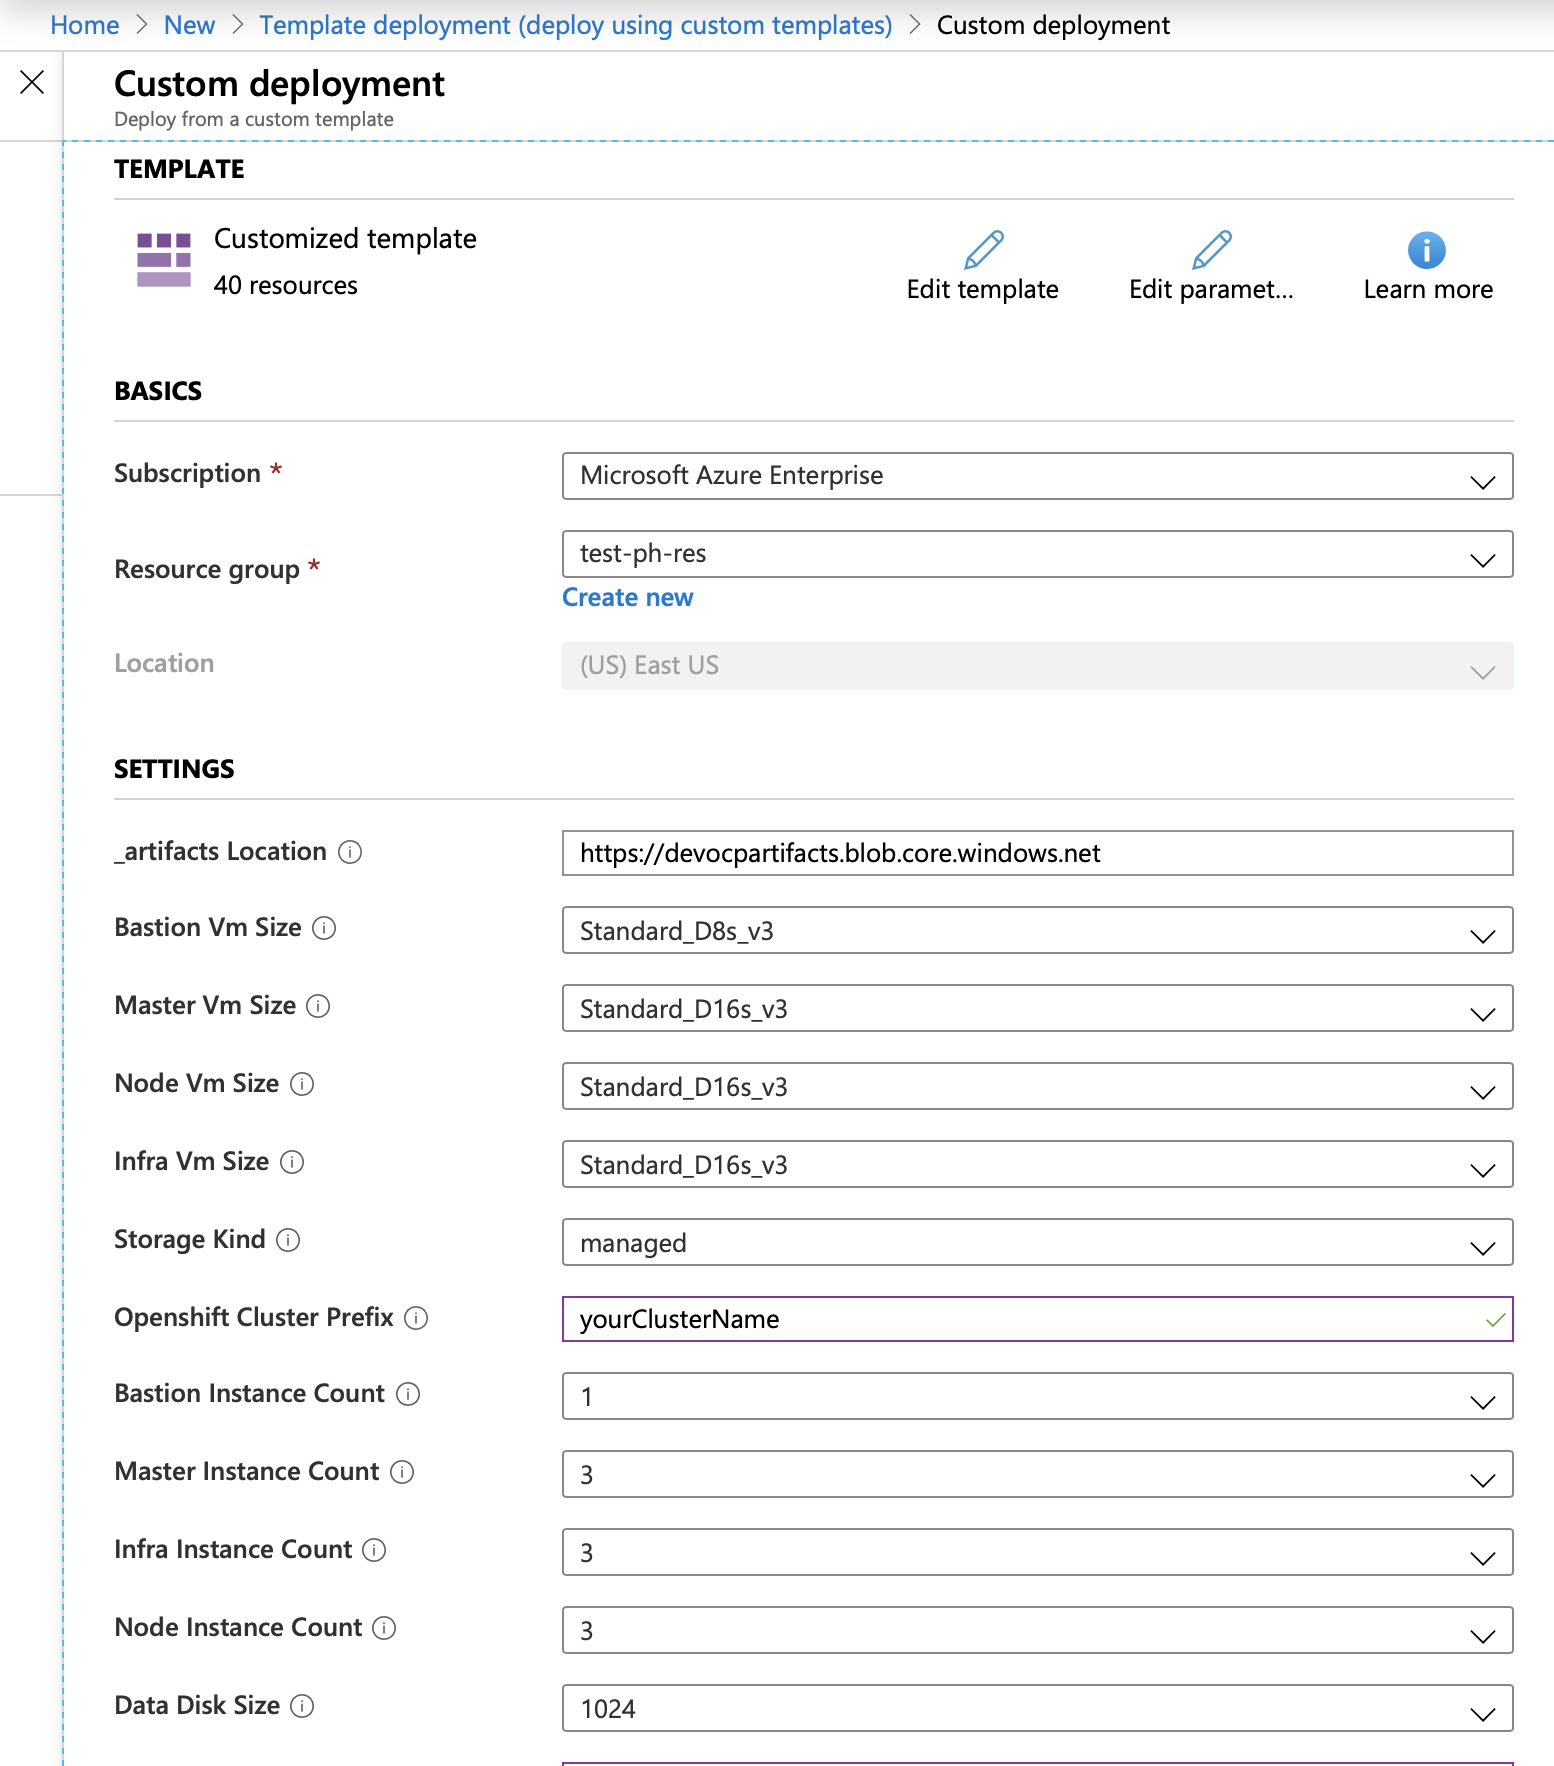
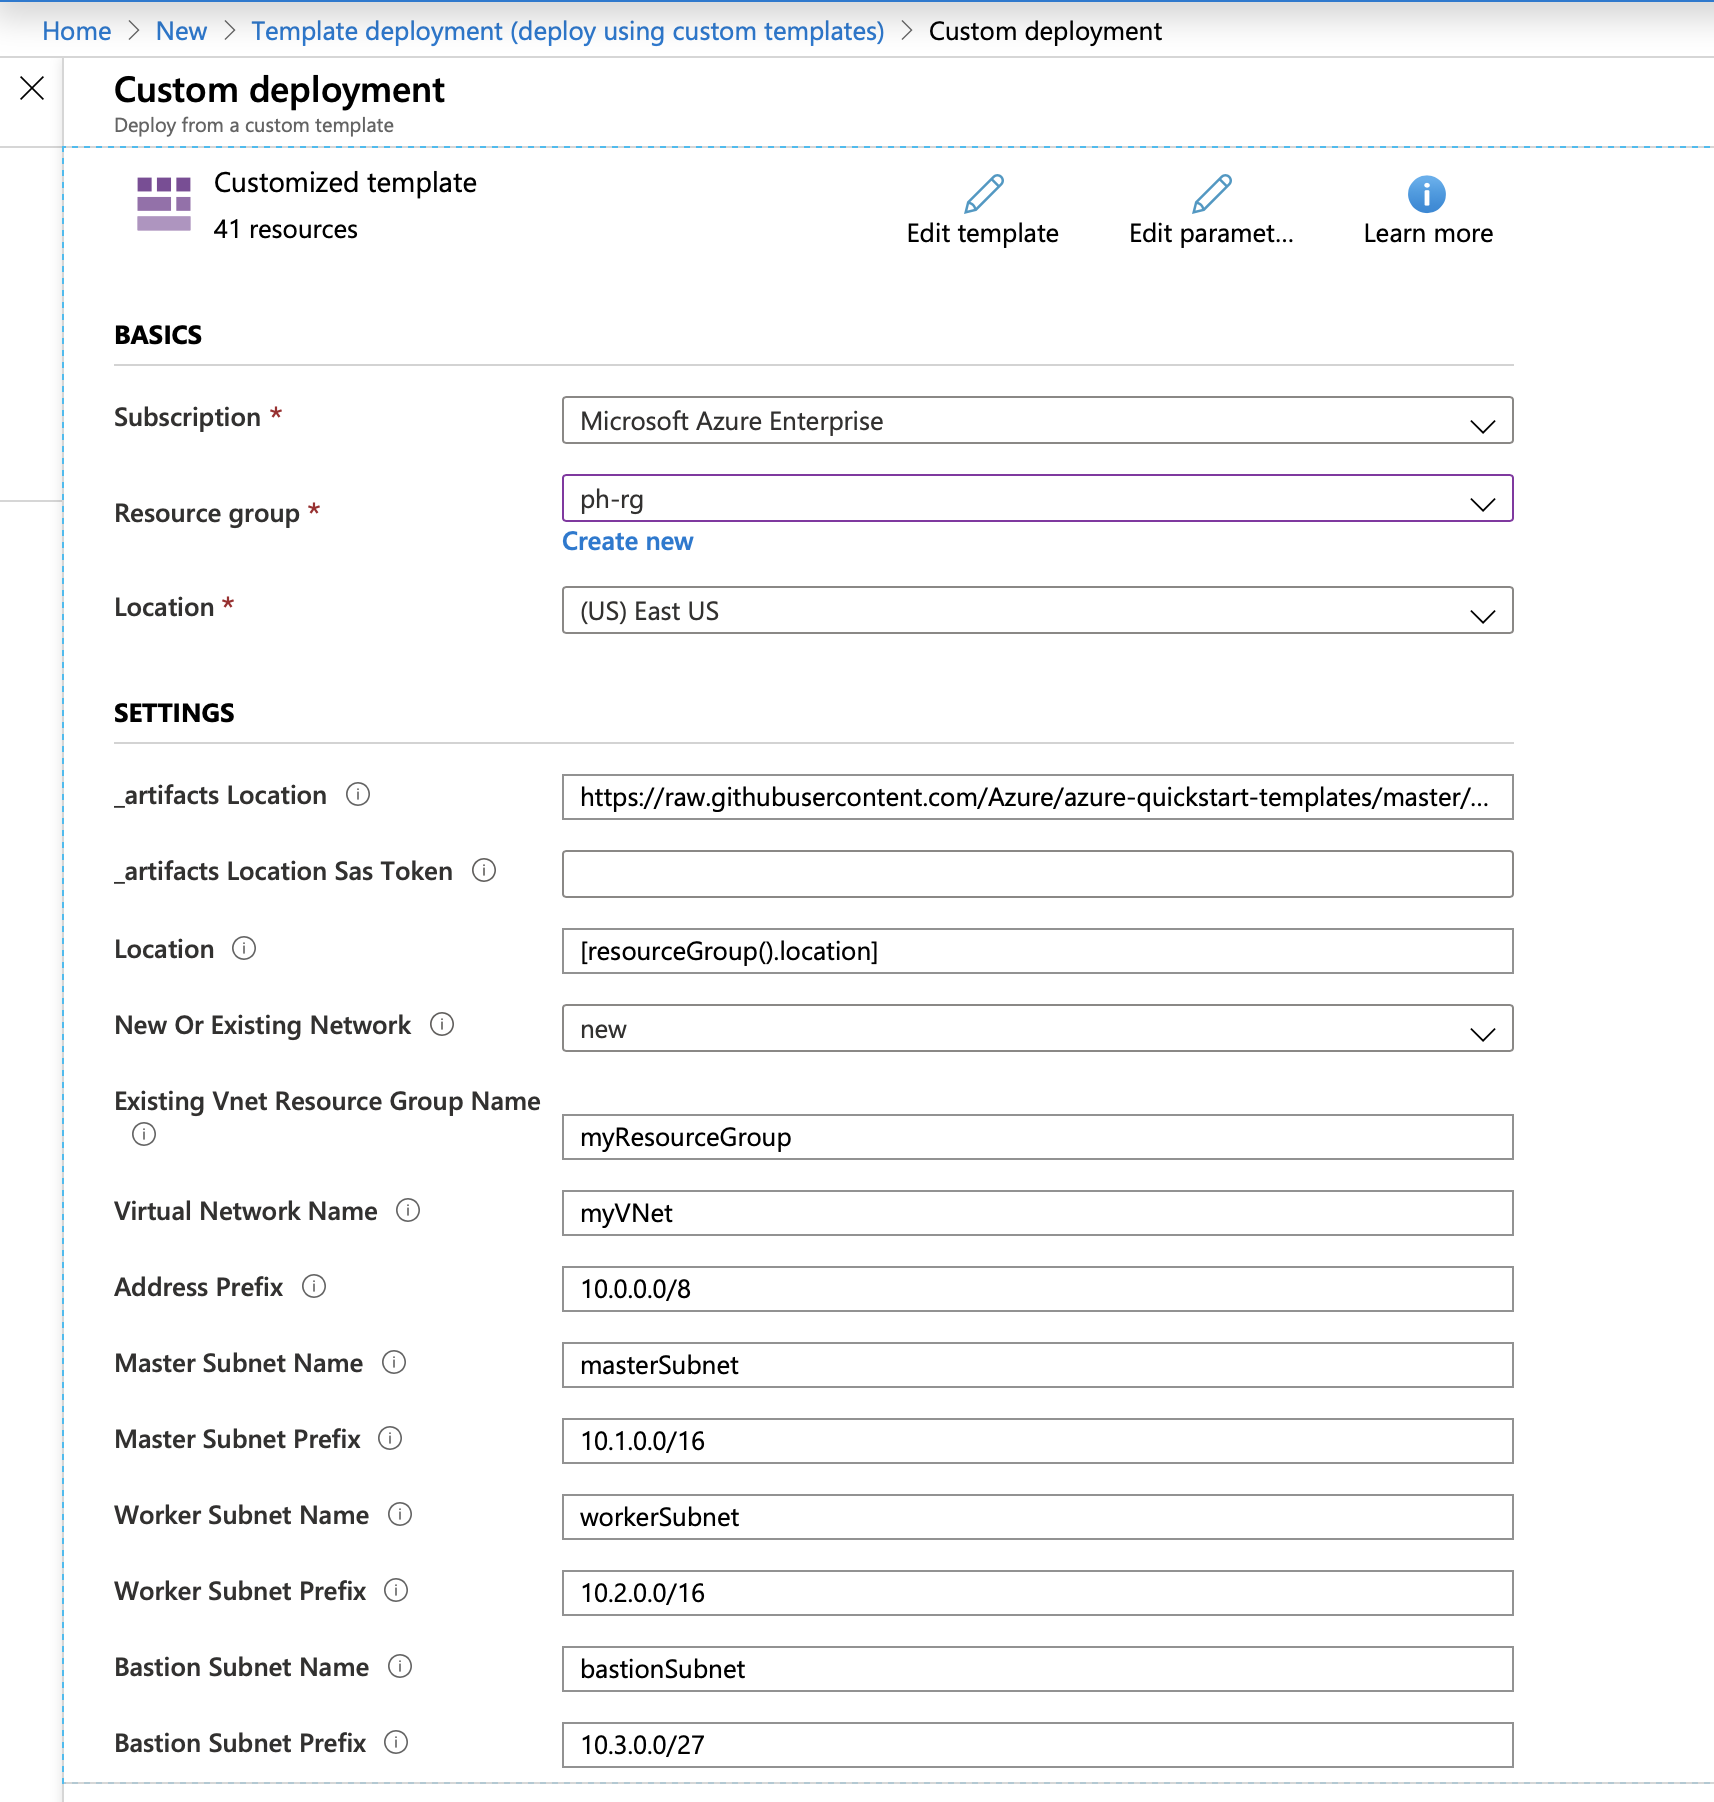
updated Readme with new or existing network option

diff --git a/ibm-cloud-pak-for-data/README.md b/ibm-cloud-pak-for-data/README.md
@@ -154,8 +154,12 @@ az group deployment create --resource-group <resource_group> --template-file azu
 <br/><br/>
 ![Alt text](images/template1.png?raw=true "parameters1")
 
+![Alt text](images/template1.1.png?raw=true "parameters1.1")
+
 
 * Specify the resource group or create new using the given option
+
+* Select 'new' network if you wish to deploy on a new network or you may deploy on an 'existing' network. In case of 'existing' network, make sure the new resources are also in the same region.
 
 * Specify the VM sizes for Bastion, Master, Infra and Worker nodes
 
